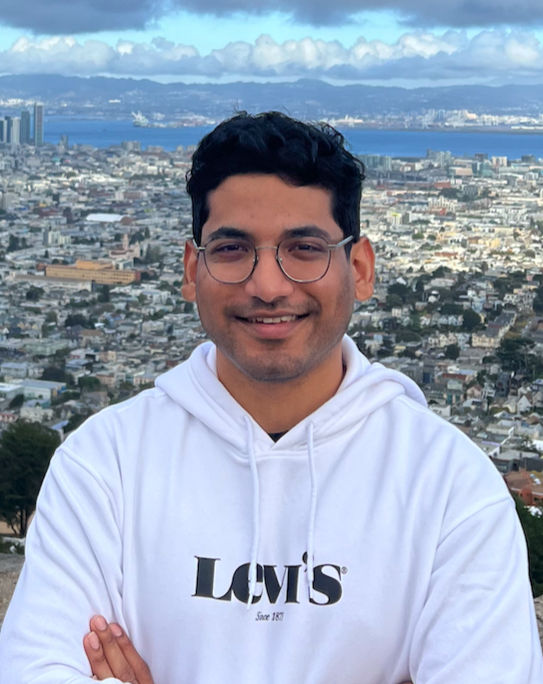
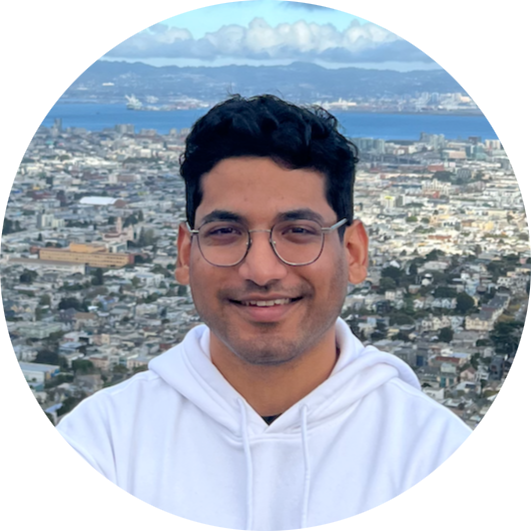
syled front page, yet to ad rest of the elements

diff --git a/index.html b/index.html
@@ -37,19 +37,42 @@
     </nav>
     <section id="profile">
         <div class="section__pic-container">
+            <div class="circle"></div>
             <img src="./assets/mypic.png" alt="Anshul's pic">
+            </div>
         </div>
-        <div class="section_text">
-            <p class="section_text_p1">Hello, I'm</p>
-            <h1>Anshul Kumar Shandilya</h1>
-            <p class="section_text_p2">Software Engineer</p>
+        <div class="section__text">
+            <p class="section__text_p1">Hello, I'm</p>
+            <h1 class="section__text_p1_head">Anshul Kumar Shandilya</h1>
+            <p class="section__text_p2">Software Engineer</p>
             <div class="btn-container">
                 <button class="btn btn-color-2" onclick="window.open('./assets/resume.docx')">My resume</button>
-                <button class="btn btn-color-1" onclick="location.href='./#contact'">Contact Info</button>
+                <button class="btn btn-color-1" onclick="location.href='./#contact'">Contact Me</button>
             </div>
             <div id="socials-container">
                 <img src="./assets/linkedin.png" alt="My linkedIn profile" class="icon" onclick="location.href='https://www.linkedin.com/in/anshulshandilya/'">
                 <img src="./assets/github.png" alt="My github profile" class="icon" onclick="location.href='https://www.github.com/akaidecember/'">
+            </div>
+        </div>
+    </section>
+    <section id="about">
+        <p class="section__text_p1">Get to know more</p>
+        <h1 clas="title">About Me</h1>
+        <div class="about-details-container">
+            <!-- <div class="section__pic-container">
+                <img src>
+            </div> -->
+            <div class="about-containers">
+                <div class="details-container">
+                    <img src="./assets/experience.png" alt="experience icon" class="icon">
+                    <h3>Experience</h3>
+                    <p>1+ years <br />Firmware and Software Engineering</p>
+                </div>
+                <div class="details-container">
+                    <img src="./assets/education.png" alt="education icon" class="icon">
+                    <h3>Education</h3>
+                    <p>B.Sc. Computer Science<br />M.Sc. Software Engineering</p>
+                </div>
             </div>
         </div>
     </section>

diff --git a/style.css b/style.css
@@ -138,3 +138,112 @@ a:hover {
     transform: none;
 }
 
+section {
+    padding-top: 4vh;
+    height: 96 vh;
+    margin: 0 10rem;
+    box-sizing: border-box;
+    min-height: fit-content;
+}
+
+.section-container {
+    display: flex;
+}
+
+#profile {
+    display: flex;
+    justify-content: center;
+    gap: 5rem;
+    height: 80vh;
+}
+
+.section__pic-container {
+    display: flex;
+    height: 400px;
+    width: 400px;
+    margin: auto 0;
+}
+
+.section__text {
+    align-self: center;
+    text-align: center;
+}
+
+.section__text p {
+    font-weight: 600;
+}
+
+.section__text_p1 {
+    text-align: center;
+}
+
+.section__text_p1_head {
+    font-size: 2.5rem;
+}
+
+.section__text_p2 {
+    font-size: 1.75rem;
+    margin-bottom: 1rem;
+}
+
+.title {
+    font-size: 3rem;
+    text-align: center;
+}
+
+#socials-container {
+    display: flex;
+    justify-content: center;
+    margin-top: 1rem;
+    gap: 1rem;
+}
+
+.icon {
+    cursor: pointer;
+    height: 2rem;
+}
+
+.btn-container {
+    display: flex;
+    justify-content: center;
+    gap: 1rem;
+}
+
+.btn {
+    font-weight: 600;
+    transition: all 300ms ease;
+    padding: 1rem;
+    width: 8rem;
+    border-radius: 2rem;
+}
+
+.btn-color-1, .btn-color-2 {
+    border: rgb(0,54,161) 0.1rem solid;
+}
+
+.btn-color-1:hover, 
+.btn-color-2:hover {
+    cursor: pointer;
+}
+
+.btn-color-1, 
+.btn-color-2:hover {
+    background-color: rgb(0,54,161);
+    color: white;
+}
+
+.btn-color-1:hover{
+    background: rgb(0,0,0);
+}
+
+.btn-color-2 {
+    background: none;
+}
+
+.btn-color-2:hover{
+    border: rgb(255,255,255) 0.1rem solid;
+}
+
+.btn-container {
+    gap: 1rem;
+}
